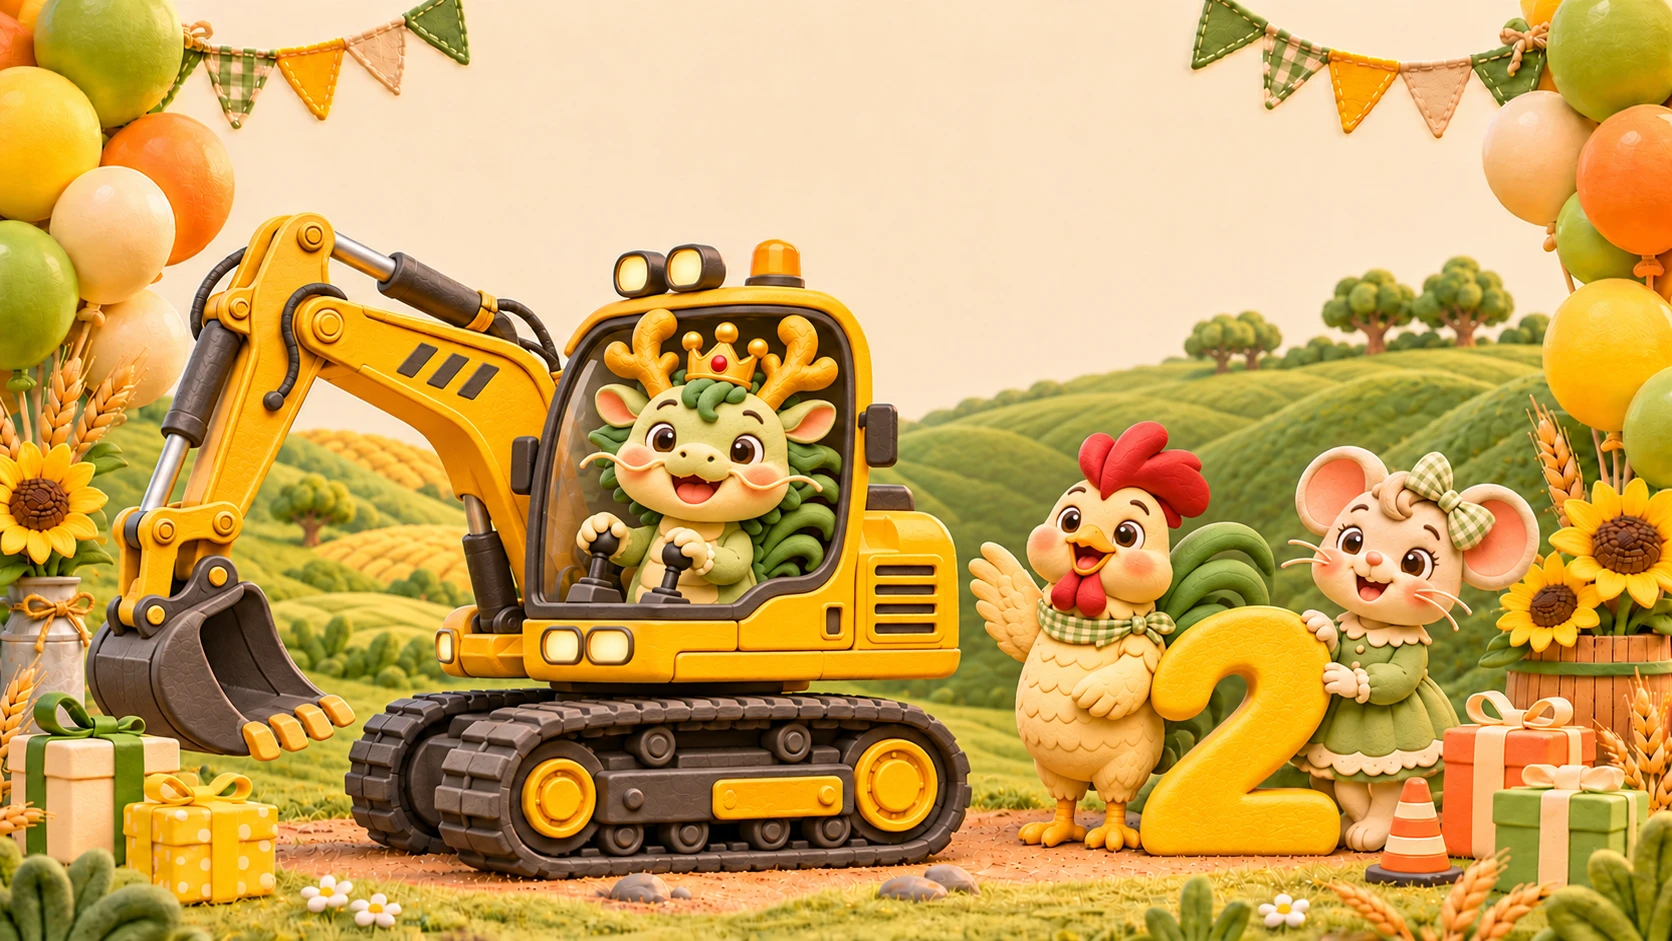
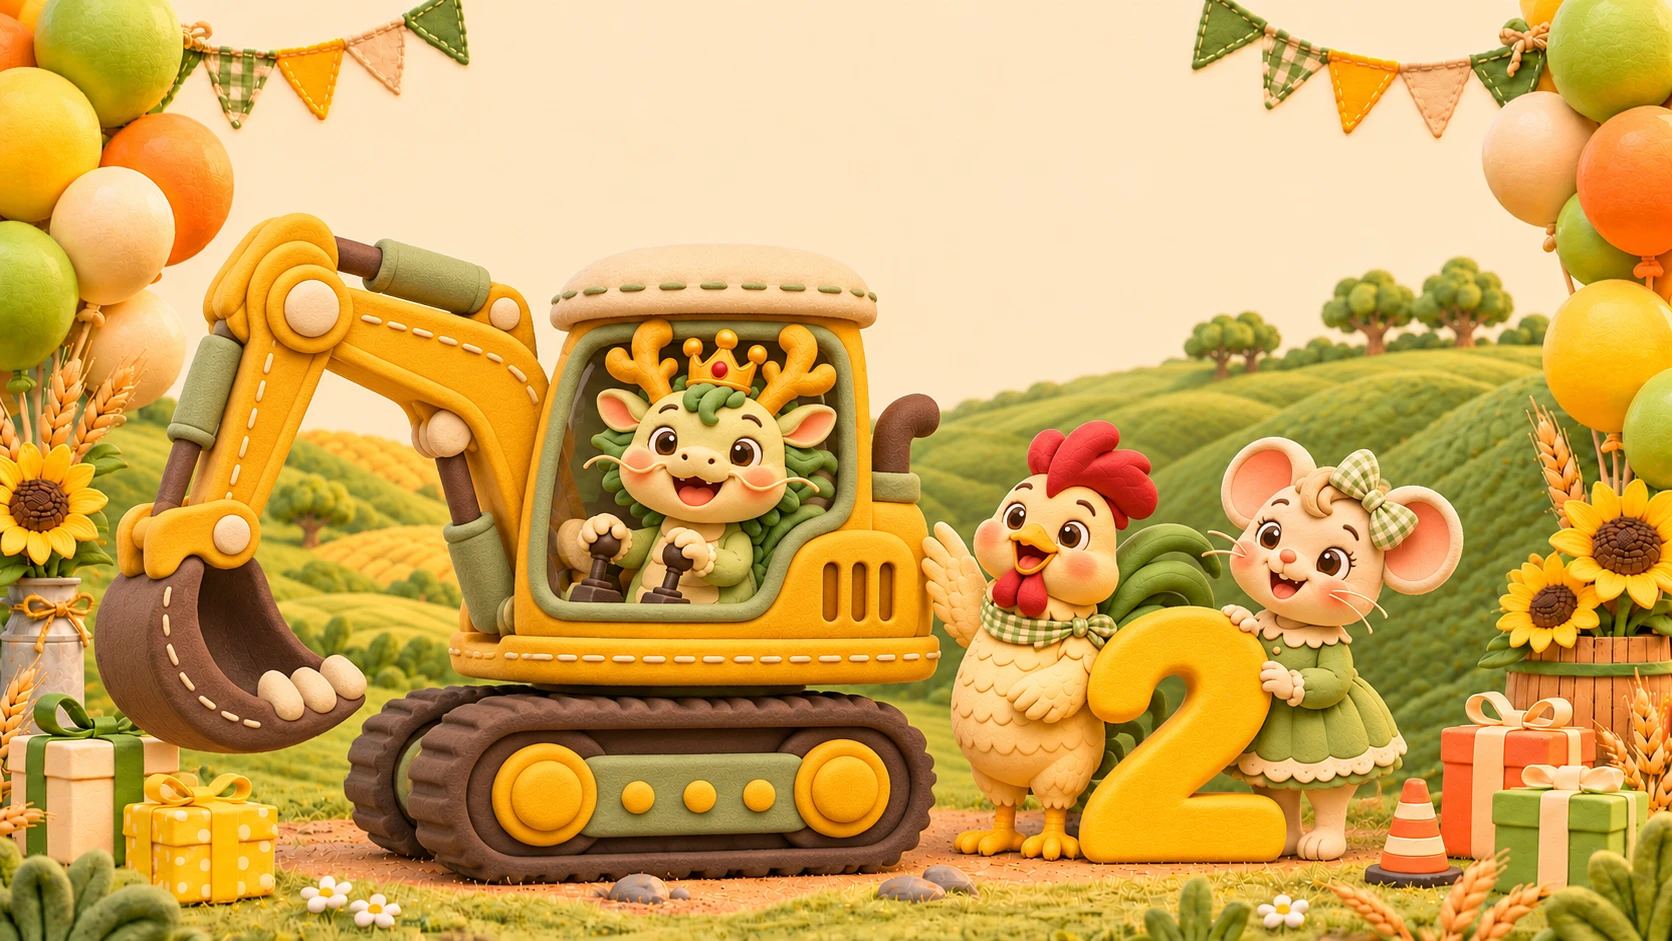
feat(game-ui): 优化游戏互动好友布局与样式，更新资源与文档
重新排序游戏场景的好友按钮，将小龙齐齐置于中间作为核心角色；调整好友网格的CSS布局与各角色图片尺寸比例，修复气泡特效的定位逻辑。更新README文档与图片生成提示词，同步修改测试脚本适配新布局，替换更新关联素材文件。

diff --git a/app.js b/app.js
@@ -104,7 +104,7 @@ $('clear-voices').onclick=()=>voice.clearClips();
 // 无分数、无失败的因果互动，短音效节流，图形与文字同时回应。
 const greetings={dragon:'小龙说：齐齐，生日快乐！',mouse:'鼠妈妈说：齐齐，妈妈爱你！',rooster:'公鸡爸爸说：齐齐，爸爸陪你玩！',excavator:'挖掘机说：嘟嘟，快乐出发！'};
 let lastGreeting=0;
-document.querySelectorAll('[data-friend]').forEach(button=>button.onclick=()=>{if(frozen())return;const now=performance.now();if(now-lastGreeting<450)return;lastGreeting=now;const kind=button.dataset.friend;$('hello').textContent=greetings[kind];clearTimeout(helloTimer);helloTimer=setTimeout(()=>$('hello').textContent='点点小伙伴',4500);button.classList.remove('greet');void button.offsetWidth;button.classList.add('greet');audio.stopEffects();const greeting=++greetingRun;voice.speak(kind,greetings[kind].replace(/^[^：]*：/, '')).then(spoken=>{if(!spoken&&greeting===greetingRun&&mode==='game'&&!frozen())audio.effect(kind).catch(()=>{});});if(!reduced.matches){const star=document.createElement('span');star.className='bubble';star.textContent=kind==='dragon'?'♥':'✦';star.style.left=`${18+Array.from(button.parentNode.children).indexOf(button)*22}%`;star.style.top='43%';$('bubbles').append(star);setTimeout(()=>star.remove(),1900);if($('bubbles').children.length>8)$('bubbles').firstElementChild.remove();}});
+document.querySelectorAll('[data-friend]').forEach(button=>button.onclick=()=>{if(frozen())return;const now=performance.now();if(now-lastGreeting<450)return;lastGreeting=now;const kind=button.dataset.friend;$('hello').textContent=greetings[kind];clearTimeout(helloTimer);helloTimer=setTimeout(()=>$('hello').textContent='点点小伙伴',4500);button.classList.remove('greet');void button.offsetWidth;button.classList.add('greet');audio.stopEffects();const greeting=++greetingRun;voice.speak(kind,greetings[kind].replace(/^[^：]*：/, '')).then(spoken=>{if(!spoken&&greeting===greetingRun&&mode==='game'&&!frozen())audio.effect(kind).catch(()=>{});});if(!reduced.matches){const star=document.createElement('span');star.className='bubble';star.textContent=kind==='dragon'?'♥':'✦';const stageRect=$('stage').getBoundingClientRect(),targetRect=button.getBoundingClientRect();star.style.left=`${targetRect.left+targetRect.width/2-stageRect.left}px`;star.style.top=`${targetRect.top+targetRect.height*.25-stageRect.top}px`;$('bubbles').append(star);setTimeout(()=>star.remove(),1900);if($('bubbles').children.length>8)$('bubbles').firstElementChild.remove();}});
 // 展示工具：全屏和屏幕常亮均有失败回退。
 function fullscreenElement(){return document.fullscreenElement||document.webkitFullscreenElement;}
 function updateFullscreen(){const active=Boolean(fullscreenElement());$('fullscreen').textContent=active?'退出全屏':'全屏展示';$('fullscreen').setAttribute('aria-pressed',String(active));if(!active&&childMode)exitChildMode();else showControls(!active);}

diff --git a/index.html b/index.html
@@ -14,7 +14,7 @@
 </section>
 <section id="scene-game" class="scene" hidden aria-label="和生肖家人玩">
 <div class="scene-heading"><h1><img class="title-art" src="assets/family-title.webp" alt="一家人，一起玩！" width="2172" height="724"></h1><div id="hello" aria-live="polite">点点小伙伴</div></div>
-<div class="friends"><button data-friend="dragon" aria-label="和小龙打招呼"><img src="assets/little-dragon.webp" alt=""><span>小龙齐齐</span></button><button data-friend="mouse" aria-label="和鼠妈妈打招呼"><img loading="lazy" src="assets/little-mouse.webp" alt=""><span>鼠妈妈</span></button><button data-friend="rooster" aria-label="和公鸡爸爸打招呼"><img loading="lazy" src="assets/little-rooster.webp" alt=""><span>公鸡爸爸</span></button><button data-friend="excavator" aria-label="和挖掘机打招呼"><img loading="lazy" src="assets/little-excavator.webp" alt=""><span>挖掘机</span></button></div>
+<div class="friends"><button data-friend="mouse" aria-label="和鼠妈妈打招呼"><img loading="lazy" src="assets/little-mouse.webp" alt=""><span>鼠妈妈</span></button><button data-friend="dragon" aria-label="和小龙打招呼"><img src="assets/little-dragon.webp" alt=""><span>小龙齐齐</span></button><button data-friend="rooster" aria-label="和公鸡爸爸打招呼"><img loading="lazy" src="assets/little-rooster.webp" alt=""><span>公鸡爸爸</span></button><button data-friend="excavator" aria-label="和挖掘机打招呼"><img loading="lazy" src="assets/little-excavator.webp" alt=""><span>挖掘机</span></button></div>
 <div id="bubbles" aria-hidden="true"></div>
 </section><div id="confetti" aria-hidden="true"></div>
 </main>

diff --git a/styles.css b/styles.css
@@ -52,3 +52,12 @@
 .empty .album-heading{width:78%;margin:-2cqw 0 -1cqw;line-height:0}
 .empty .album-heading img{display:block;width:100%;height:auto;aspect-ratio:auto}
 .empty .privacy-note{margin:0 0 .7cqw;font-size:clamp(10px,1.2cqw,18px)!important}
+
+/* 家庭三人以齐齐为中心；挖掘机是较小的互动伙伴。 */
+.friends{left:5%;right:5%;grid-template-columns:1fr 1.4fr 1fr .75fr;gap:1.5%}
+.friends button{min-width:0;min-height:0}
+.friends img{height:72%;flex-shrink:1;min-height:0}
+.friends button[data-friend="dragon"] img{height:88%}
+.friends button[data-friend="excavator"] img{height:59%}
+.friends button[data-friend="dragon"] span{background:#f6d47f;box-shadow:0 .2cqw .8cqw #c2933020}
+.friends span{font-size:1.8cqw;padding:.5cqw 1.4cqw;flex-shrink:0}

diff --git a/README.md b/README.md
@@ -28,7 +28,7 @@
 | 挖掘机乐园 | 小龙齐齐开黄色玩具挖掘机，公鸡爸爸与鼠妈妈在旁边庆祝；大号生图艺术字 |
 | 成长相册 | 本地选图、自动循环、上一张/下一张、字幕开关、可选背景音乐 |
 | 生日蛋糕 | 齐齐在蛋糕右侧独立站立，爸爸妈妈在左侧陪伴；生日歌、同步歌词、手动吹灭与重新点亮 |
-| 点点玩 | 点击小龙齐齐、鼠妈妈、公鸡爸爸和小挖掘机，获得招呼文字与轻柔反馈 |
+| 点点玩 | 点击小龙齐齐、鼠妈妈、公鸡爸爸和小挖掘机，齐齐位于父母中间且稍大，小挖掘机作为次要伙伴；点击获得招呼文字与轻柔反馈 |
 
 「撒花庆祝」可在任一场景手动触发；「合影模式」暂停动画、相册及音频，清除彩纸并隐藏按钮。轻点空白处只恢复操作栏，退出合影才恢复之前的展示状态。主插画保持稳定，不再模拟图片内部车轮或风车转动；动效用于艺术字入场与轻轻起伏、火苗、彩纸和互动角色；系统减少动态效果、合影或暂停时停止。
 
@@ -83,7 +83,7 @@ scripts/package_site.py     单一版本白名单打包
 .github/workflows/pages.yml GitHub Pages 检查与发布工作流
 ```
 
-图片通过内置 `image_gen` 生成和编辑。提示词核心是“温暖的 3D 黏土/毛毡生日挖掘机乐园，戴皇冠的中国小龙齐齐驾驶黄色玩具履带挖掘机，公鸡爸爸和鼠妈妈在旁边庆祝，金色数字 2，顶部留白叠加精确中文艺术字”。完整提示词与中间风格迭代记录保存在 `scripts/image-prompts.json`，发布包只包含最终素材。
+图片通过内置 `image_gen` 生成和编辑。提示词核心是“温暖的 3D 黏土/毛毡生日挖掘机乐园，戴皇冠的中国小龙齐齐驾驶黄色玩具履带挖掘机，公鸡爸爸和鼠妈妈在旁边庆祝，金色数字 2，一家人靠近陪伴，挖掘机统一圆润毛毡玩具质感，蛋糕页齐齐独立站立但与父母身高接近，顶部留白叠加精确中文艺术字”。完整提示词与中间风格迭代记录保存在 `scripts/image-prompts.json`，发布包只包含最终素材。
 
 运行检查和打包：
 
